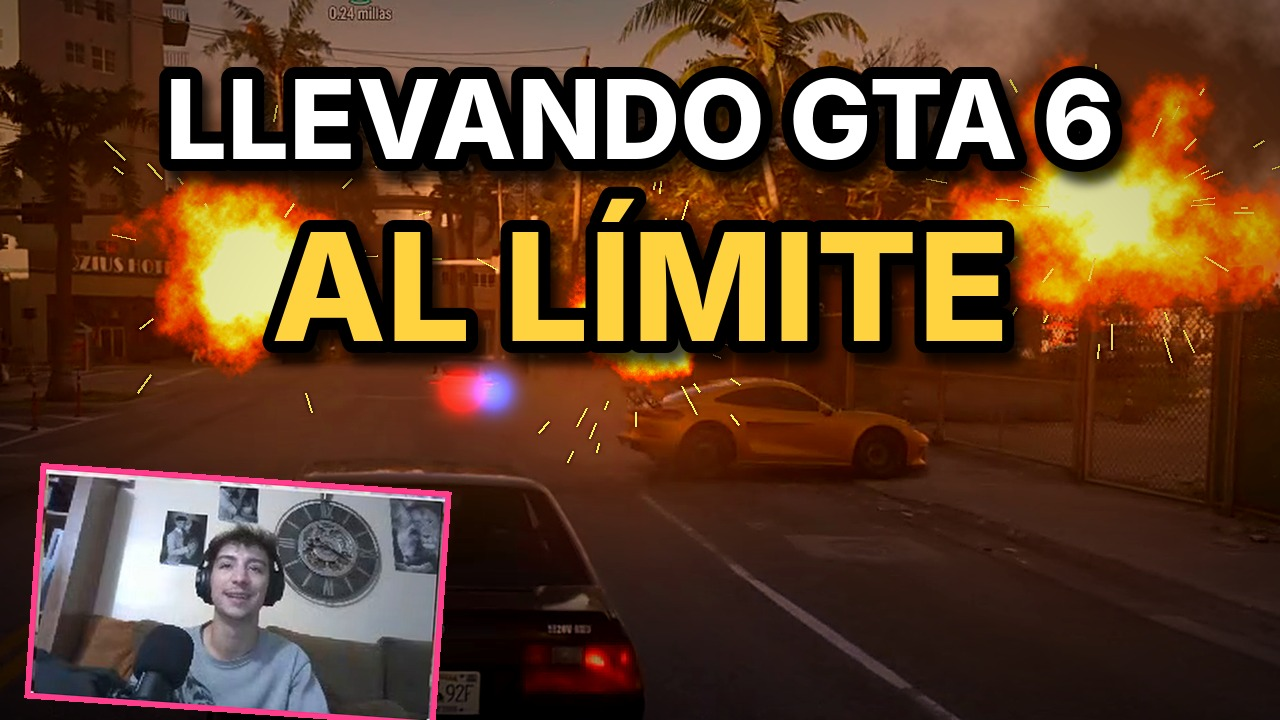
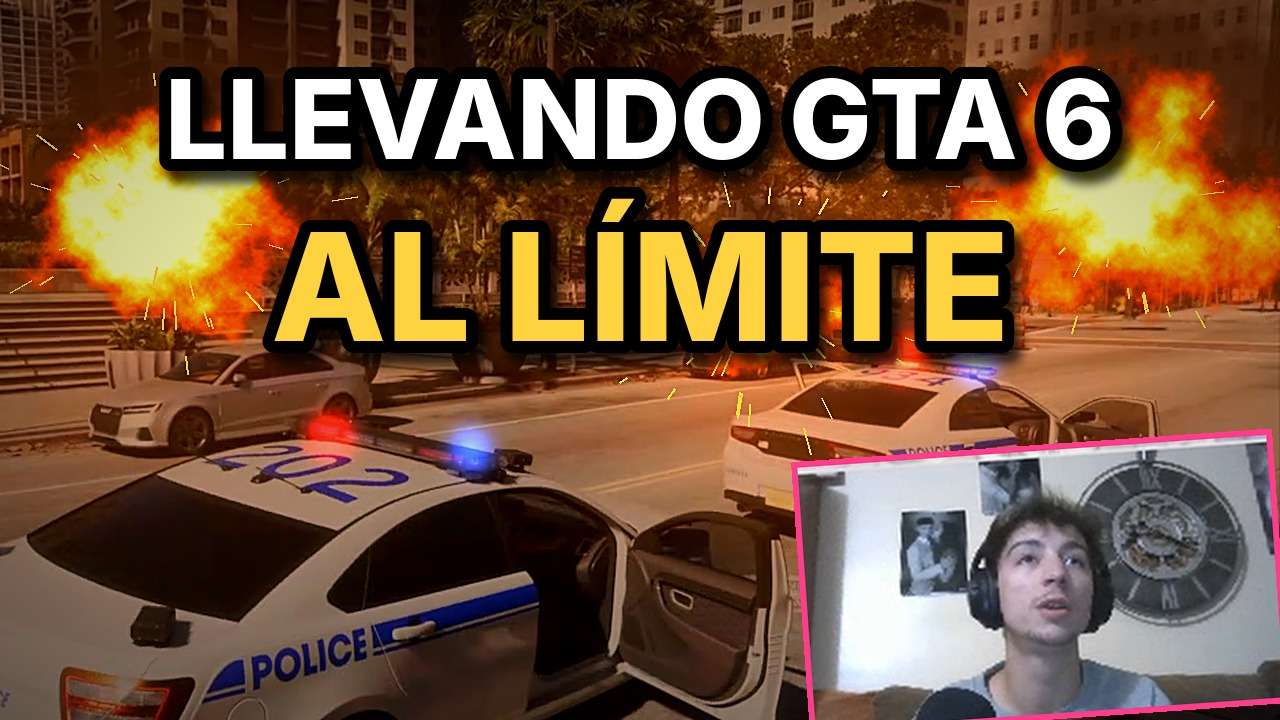
Miniatura del tercer directo: policía, explosiones y cara de sorpresa
Claude-Session: https://claude.ai/code/session_01QKShAYbWpTnpCY69QJ4zm9

diff --git a/albertesonrrei/miniatura_caos.py b/albertesonrrei/miniatura_caos.py
@@ -5,7 +5,7 @@ from reel import ajustar_fuente, texto_con_estilo
 V='/tmp/claude-0/-home-user-Reel/3efe04a8-bc52-519f-9bff-2b639dd9ba8e/scratchpad/vod4/'
 W,H=1280,720
 rng=np.random.default_rng(11)
-img=np.asarray(Image.open(V+'base_mini.png').convert('RGB')).astype(np.float32)/255
+img=np.asarray(Image.open(V+'base_pol.png').convert('RGB')).astype(np.float32)/255
 yy,xx=np.mgrid[0:H,0:W].astype(np.float32)
 def fbm(esc,oct=6):
     n=np.zeros((H,W),np.float32); a=1; t=0
@@ -34,25 +34,25 @@ def explosion(cx,cy,r):
     gl=np.exp(-((xx-cx)**2+(yy-cy)**2)/(2*(r*1.8)**2))*0.28
     img=img+np.stack([gl,gl*0.42,gl*0.08],-1)
 img=img*np.array([0.9,0.82,0.78])
-explosion(1110,210,150)   # detrás, a la derecha
-explosion(250,260,115)    # izquierda, junto al hotel
-explosion(640,330,70)     # al fondo de la calle
-for cx,cy,c in [(462,390,(1,0.08,0.08)),(492,391,(0.1,0.3,1))]:  # luces del coche del fondo
+explosion(1120,200,150)
+explosion(170,220,120)
+explosion(760,300,80)
+for cx,cy,c in [(330,435,(1,0.08,0.08)),(470,450,(0.1,0.3,1)),(905,358,(1,0.08,0.08)),(975,362,(0.1,0.3,1))]:  # luces del coche del fondo
     g=np.exp(-((xx-cx)**2+(yy-cy)**2)/(2*14**2)); img=img+np.array(c)*g[...,None]*1.3
 img=np.clip(img,0,1)
 im=Image.fromarray((img*255).astype(np.uint8))
 d=ImageDraw.Draw(im)
 for _ in range(90):  # chispas cortas
-    cx,cy=[(1110,210),(250,260),(640,330)][rng.integers(3)]
+    cx,cy=[(1120,200),(170,220),(760,300)][rng.integers(3)]
     ang=rng.random()*2*np.pi; r0=60+rng.random()*120; L=6+rng.random()*22
     x0,y0=cx+np.cos(ang)*r0,cy+np.sin(ang)*r0*0.8
     d.line((x0,y0,x0+np.cos(ang)*L,y0+np.sin(ang)*L),fill=(255,200,90),width=2)
 im=ImageEnhance.Contrast(ImageEnhance.Color(im).enhance(1.25)).enhance(1.12).filter(ImageFilter.UnsharpMask(2,60,2))
 v=np.clip(1-(((xx-W/2)/(W*0.8))**2+((yy-H/2)/(H*0.85))**2)*0.55,0.45,1)
 im=Image.fromarray((np.asarray(im,np.float32)*v[...,None]).astype(np.uint8)).convert('RGBA')
-cara=Image.open(V+'cara_12501.png').convert('RGB').resize((400,224),Image.LANCZOS)
-marco=Image.new('RGBA',(412,236),(255,61,139,255)); marco.paste(cara,(6,6))
-im.alpha_composite(marco.rotate(-4,expand=True,resample=Image.BICUBIC),(24,462))
+cara=Image.open(V+'cara_sorpresa.png').convert('RGB').crop((40,0,240,112)).resize((470,263),Image.LANCZOS)
+marco=Image.new('RGBA',(482,275),(255,61,139,255)); marco.paste(cara,(6,6))
+im.alpha_composite(marco.rotate(4,expand=True,resample=Image.BICUBIC),(790,428))
 AM,BL=(255,210,63,255),(255,255,255,255)
 for txt,y,c,tam in [("LLEVANDO GTA 6",22,BL,110),("AL LÍMITE",142,AM,150)]:
     t=texto_con_estilo(txt,ajustar_fuente(txt,1180,tam,tam_min=60,borde=12),c,borde=12,color_borde=(0,0,0))
